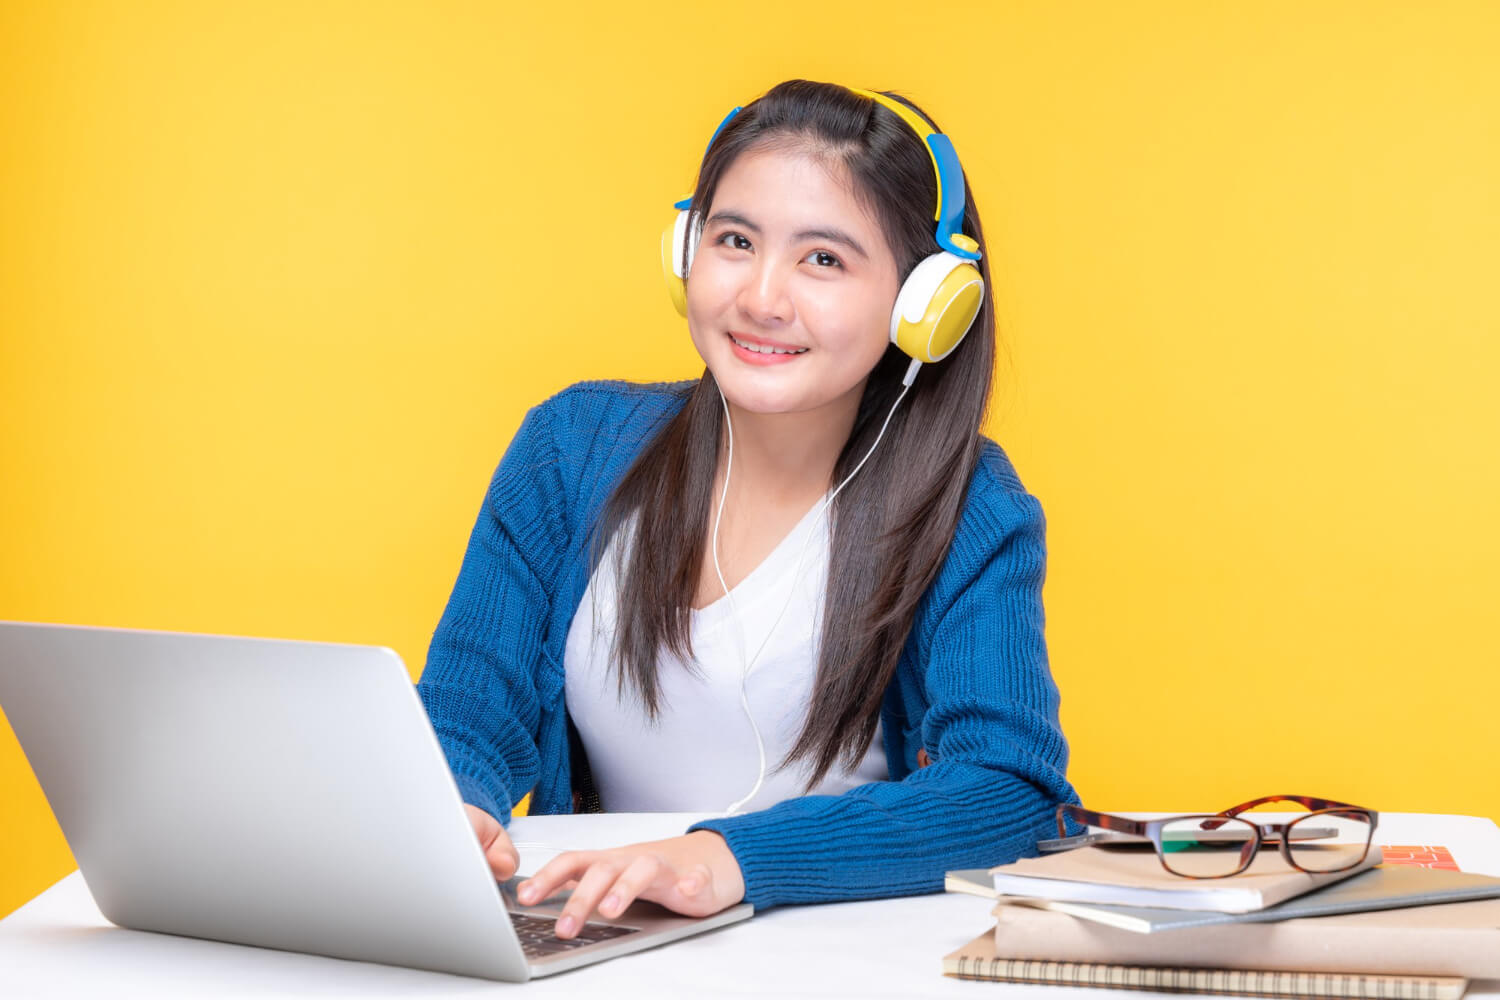
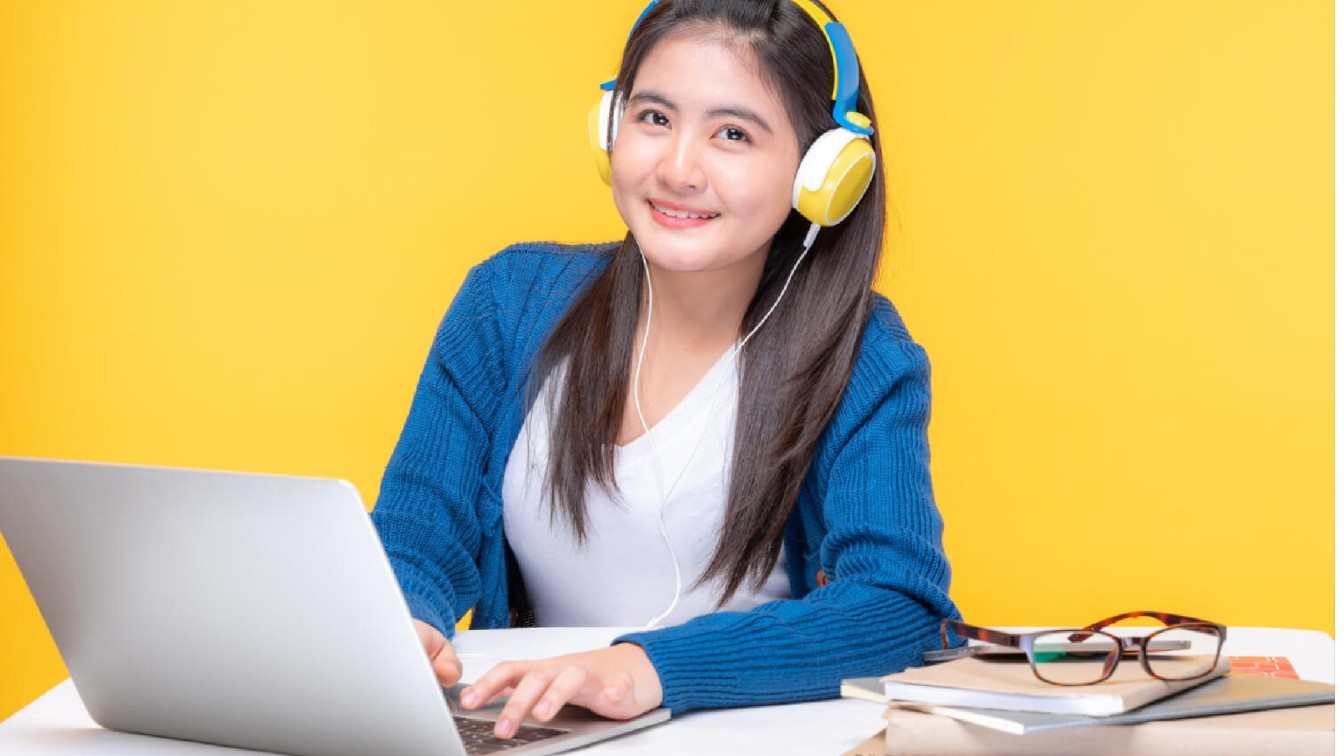
Carousel Added

Changed region(s): [[0.0, 0.0, 1.0, 1.0], [0.0, 0.7302, 0.0312, 0.8214]]

diff --git a/index.html b/index.html
@@ -13,41 +13,84 @@
 <body>
 
     <header class="container">
+
         <!-- navbar start -->
-        <nav class="navbar navbar-expand-lg">
-            <div class="container-fluid">
-              <a class="navbar-brand fw-bold fs-2 logo-color" href="#">Pro Edu</a>
-              <button class="navbar-toggler" type="button" data-bs-toggle="collapse" data-bs-target="#navbarSupportedContent" aria-controls="navbarSupportedContent" aria-expanded="false" aria-label="Toggle navigation">
-                <span class="navbar-toggler-icon"></span>
-              </button>
-              <div class="collapse navbar-collapse ms-5 nav-text" id="navbarSupportedContent">
-                <ul class="navbar-nav mx-auto mb-2 mb-lg-0">
-                  <li class="nav-item active">
-                    <a class="nav-link me-4 " aria-current="page" href="#">Home</a>
-                  </li>
-                  <li class="nav-item">
-                    <a class="nav-link me-4" href="#">Courses</a>
-                  </li>
-                  <li class="nav-item">
-                    <a class="nav-link me-4" href="#">Deals</a>
-                  </li>
-                  <li class="nav-item">
-                    <a class="nav-link me-4" href="#">Success</a>
-                  </li>
-                  <li class="nav-item">
-                    <a class="nav-link me-4" href="#">About</a>
-                  </li>
-                  <li class="nav-item">
-                    <a class="nav-link me-4" href="#">Register</a>
-                  </li>
-                  
-                </ul>
-                <form class="d-flex" role="search">
-                  <button class="btn btn-outline-primary fw-semibold" type="submit">Register</button>
-                </form>
+        <section>
+            <nav class="navbar navbar-expand-lg">
+                <div class="container-fluid">
+                  <a class="navbar-brand fw-bold fs-2 logo-color" href="#">Pro Edu</a>
+                  <button class="navbar-toggler" type="button" data-bs-toggle="collapse" data-bs-target="#navbarSupportedContent" aria-controls="navbarSupportedContent" aria-expanded="false" aria-label="Toggle navigation">
+                    <span class="navbar-toggler-icon"></span>
+                  </button>
+                  <div class="collapse navbar-collapse ms-5 nav-text" id="navbarSupportedContent">
+                    <ul class="navbar-nav mx-auto mb-2 mb-lg-0">
+                      <li class="nav-item active">
+                        <a class="nav-link me-4 " aria-current="page" href="#">Home</a>
+                      </li>
+                      <li class="nav-item">
+                        <a class="nav-link me-4" href="#">Courses</a>
+                      </li>
+                      <li class="nav-item">
+                        <a class="nav-link me-4" href="#">Deals</a>
+                      </li>
+                      <li class="nav-item">
+                        <a class="nav-link me-4" href="#">Success</a>
+                      </li>
+                      <li class="nav-item">
+                        <a class="nav-link me-4" href="#">About</a>
+                      </li>
+                      <li class="nav-item">
+                        <a class="nav-link me-4" href="#">Register</a>
+                      </li>
+                      
+                    </ul>
+                    <form class="d-flex" role="search">
+                      <button class="btn btn-outline-primary fw-semibold" type="submit">Register</button>
+                    </form>
+                  </div>
+                </div>
+              </nav>
+        </section>
+        <!-- navbar end -->
+
+        <!-- carousel banner start -->
+        <section class="my-4">
+            <div id="carouselExampleDark" class="carousel carousel-dark slide" data-bs-ride="carousel">
+                
+                <div class="carousel-inner border border-0 rounded">
+                  <div class="carousel-item active" data-bs-interval="10000">
+                    <img src="images/cover/cover-1.jpg" class="d-block w-100" alt="...">
+                    <div class="carousel-caption text-white">
+                      <h1 class="fw-bold">Get Started Digital Learning</h1>
+                      <p>Register here in your dream courses and be successful in your life.</p>
+                      <button class="btn btn-info text-white fw-semibold">Get Started</button>
+                    </div>
+                  </div>
+                  <div class="carousel-item" data-bs-interval="2000">
+                    <img src="images/cover/cover-2.jpg" class="d-block w-100" alt="...">
+                    <div class="carousel-caption d-none d-md-block">
+                      <h5>Second slide label</h5>
+                      <p>Some representative placeholder content for the second slide.</p>
+                    </div>
+                  </div>
+                  <div class="carousel-item">
+                    <img src="images/cover/cover-3.jpg" class="d-block w-100" alt="...">
+                    <div class="carousel-caption d-none d-md-block">
+                      <h5>Third slide label</h5>
+                      <p>Some representative placeholder content for the third slide.</p>
+                    </div>
+                  </div>
+                </div>
+                <button class="carousel-control-prev" type="button" data-bs-target="#carouselExampleDark" data-bs-slide="prev">
+                  <span class="carousel-control-prev-icon" aria-hidden="true"></span>
+                  <span class="visually-hidden">Previous</span>
+                </button>
+                <button class="carousel-control-next" type="button" data-bs-target="#carouselExampleDark" data-bs-slide="next">
+                  <span class="carousel-control-next-icon" aria-hidden="true"></span>
+                  <span class="visually-hidden">Next</span>
+                </button>
               </div>
-            </div>
-          </nav>
+        </section>
 
 
 

diff --git a/styles/style.css b/styles/style.css
@@ -5,3 +5,4 @@
 .nav-text a{
     color: #777777;
 }
+
